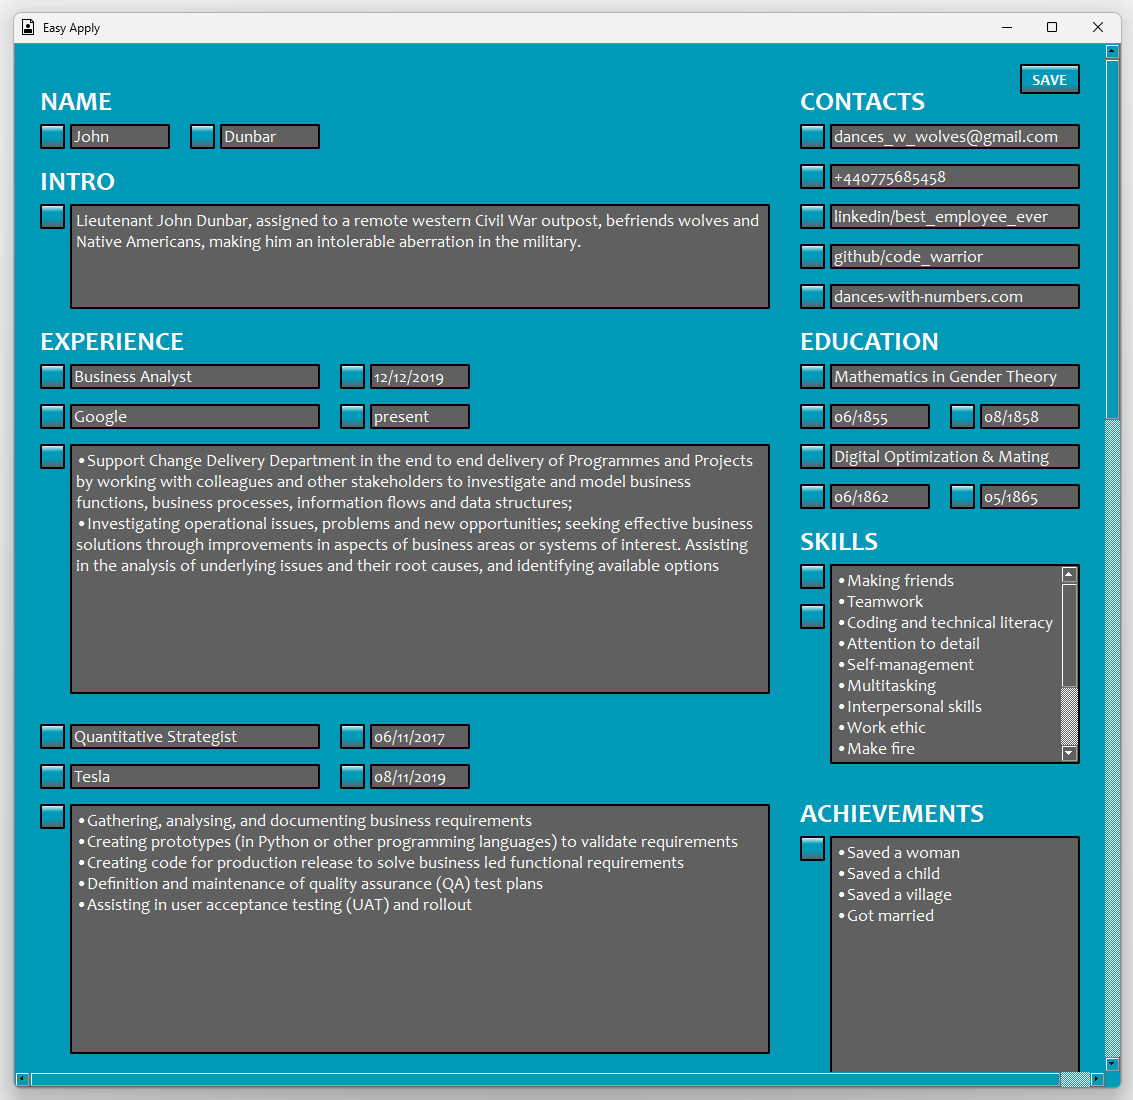
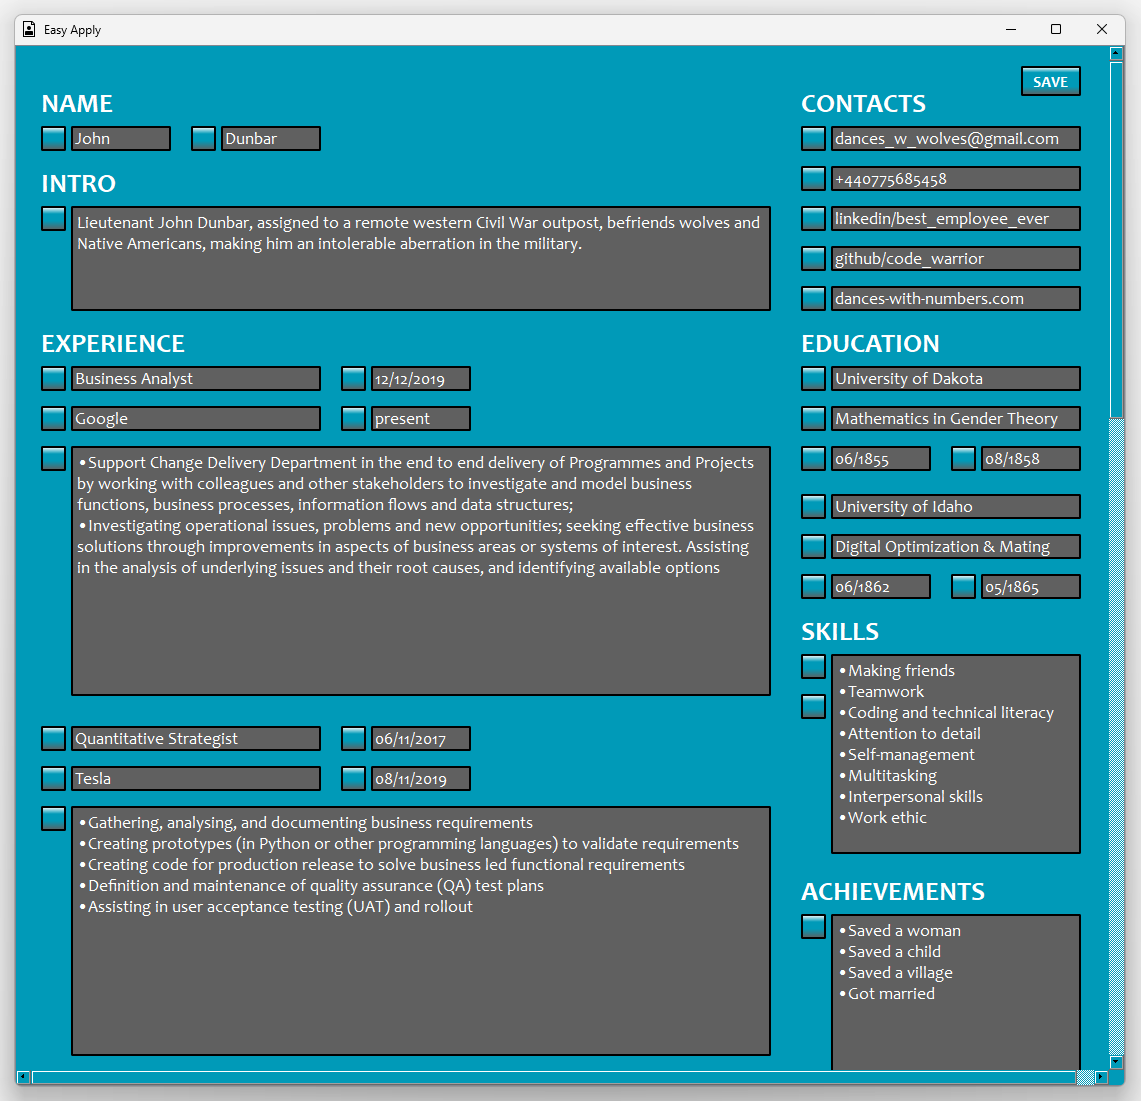
minor fixes: text orientation, education section

Changed region(s): [[0.0, 0.0, 1.0, 0.9891]]

diff --git a/pyqt/main_pyqt.py b/pyqt/main_pyqt.py
@@ -109,7 +109,6 @@ for key in db["contacts"]:
 
 
 # EDUCATION
-n = 6
 MyTitle(X_RIGHT_SIDE_BASE, y_location(n), 'EDUCATION')
 
 PUSH_DATE = 150
@@ -119,18 +118,20 @@ for key in db["education"]:
     MyTextLine(X_RIGHT_SIDE_FIELD, y_location(n+1), 'long', 'education', key, 'school')
     MyButton(X_RIGHT_SIDE_BASE, y_location(n+1), cv.dic['education'][key]['school'])
     
-    MyTextLine(X_RIGHT_SIDE_FIELD, y_location(n+1), 'long', 'education', key, 'subject')
-    MyButton(X_RIGHT_SIDE_BASE, y_location(n+1), cv.dic['education'][key]['subject'])
+    MyTextLine(X_RIGHT_SIDE_FIELD, y_location(n+2), 'long', 'education', key, 'subject')
+    MyButton(X_RIGHT_SIDE_BASE, y_location(n+2), cv.dic['education'][key]['subject'])
 
-    MyTextLine(X_RIGHT_SIDE_FIELD, y_location(n+2), 'date', 'education', key, 'from')
-    MyButton(X_RIGHT_SIDE_BASE, y_location(n+2), cv.dic['education'][key]['from'])
+    MyTextLine(X_RIGHT_SIDE_FIELD, y_location(n+3), 'date', 'education', key, 'from')
+    MyButton(X_RIGHT_SIDE_BASE, y_location(n+3), cv.dic['education'][key]['from'])
     
-    MyTextLine(X_RIGHT_SIDE_FIELD_2nd, y_location(n+2), 'date', 'education', key, 'to')
-    MyButton(X_RIGHT_SIDE_BASE_2nd, y_location(n+2), cv.dic['education'][key]['to'])
-
-    n += 2
+    MyTextLine(X_RIGHT_SIDE_FIELD_2nd, y_location(n+3), 'date', 'education', key, 'to')
+    MyButton(X_RIGHT_SIDE_BASE_2nd, y_location(n+3), cv.dic['education'][key]['to'])
+    
+    if key != list(db["education"])[-1]:
+        n += 3.2
 
 # SKILLS
+n += 3
 MyTitle(X_RIGHT_SIDE_BASE, y_location(n+1), 'SKILLS')
 MyTextField(X_RIGHT_SIDE_FIELD, y_location(n+2), 'bulk', 'mixed', 'skills')
 MyButton(X_RIGHT_SIDE_BASE, y_location(n+2), cv.dic['mixed']['skills'])
@@ -139,14 +140,14 @@ b_sep.clicked.connect(lambda: b_sep.copy_skills_separately())
 
 
 # ACHIEVEMENTS
-n = n + 7.8
+n += 7.5
 MyTitle(X_RIGHT_SIDE_BASE, y_location(n), 'ACHIEVEMENTS')
 MyTextField(X_RIGHT_SIDE_FIELD, y_location(n+1), 'bulk_tall', 'mixed', 'achievements')
 MyButton(X_RIGHT_SIDE_BASE, y_location(n+1), cv.dic['mixed']['achievements'])
 
 
 # EXTRA
-n = n + 10
+n += 9.5
 MyTitle(X_RIGHT_SIDE_BASE, y_location(n), 'EXTRA')
 MyTextField(X_RIGHT_SIDE_FIELD, y_location(n+1), 'bulk_tall', 'mixed', 'extra')
 MyButton(X_RIGHT_SIDE_BASE, y_location(n+1), cv.dic['mixed']['extra'])

diff --git a/pyqt/src/text_field.py b/pyqt/src/text_field.py
@@ -15,6 +15,7 @@ class MyTextLine(QLineEdit):
         self.setCursor(Qt.CursorShape.IBeamCursor)
         self.setFont(QFont(cv.TEXT_FIELD_FONT_STYLE, cv.TEXT_FIELD_FONT_SIZE, 500))
         self.setStyleSheet(
+                        "qproperty-cursorPosition: 0;"  # text length > field length
                         f"background-color: {cv.FIELD_BACKGROUND_COLOR};"
                         "border-radius: 2px;"
                         "border: 2px solid black;"

diff --git a/README.md b/README.md
@@ -30,18 +30,26 @@
 - The first row of the `Contacts` automatically added to the clipboard at the start of the app when the `copy_to_clipboard_page_1` set to true in `json/settings`
 - `Skills`:
     - the 1st button copies the skill list in bulk/together
-    - the 2nd button copies the skills one by one, pop-up message displaying the current skill in clipboard, jumps to the next skill, once the pop-up message is closed
+    - the 2nd button copies the skills one by one, pop-up message displaying the current skill in clipboard, jumps to the next skill, once the pop-up message is closed (ideal for `Workday ATS`)
 - At the launch of the 2nd page the `Achievements` field value automatically added to the clipboard when the `copy_to_clipboard_page_2` set to true in `json/settings`
+
+<br>
+<div align="center">
+<img src="pictures/screenshot_skills.png" align="center"></img> 
+</div>
+</br>
 
 # Guide - PyQt (latest version)
 - Buttons behave the same way as in the `Tkinter` version
 - Window is scrollable, the window size is not fixed
 - Once a field (QTextEdit) overloaded with text, scrollbar is displayed on the widget
+- Creating more `Contacts`, `Education`, `Experience` sections:
+    - In the `database_pyqt.json` just add another key-value pair or sub dictionary in these sections, no other adjustment needed
 
 <br>
 <div align="center">
-    <img src="pictures/screenshot_skills.png"</img> 
+<img src="pictures/screenshot_update.png" align="center"></img> 
 </div>
-<br>
+</br>
 
 ## Thank you all who worked on the modules used in this project!
